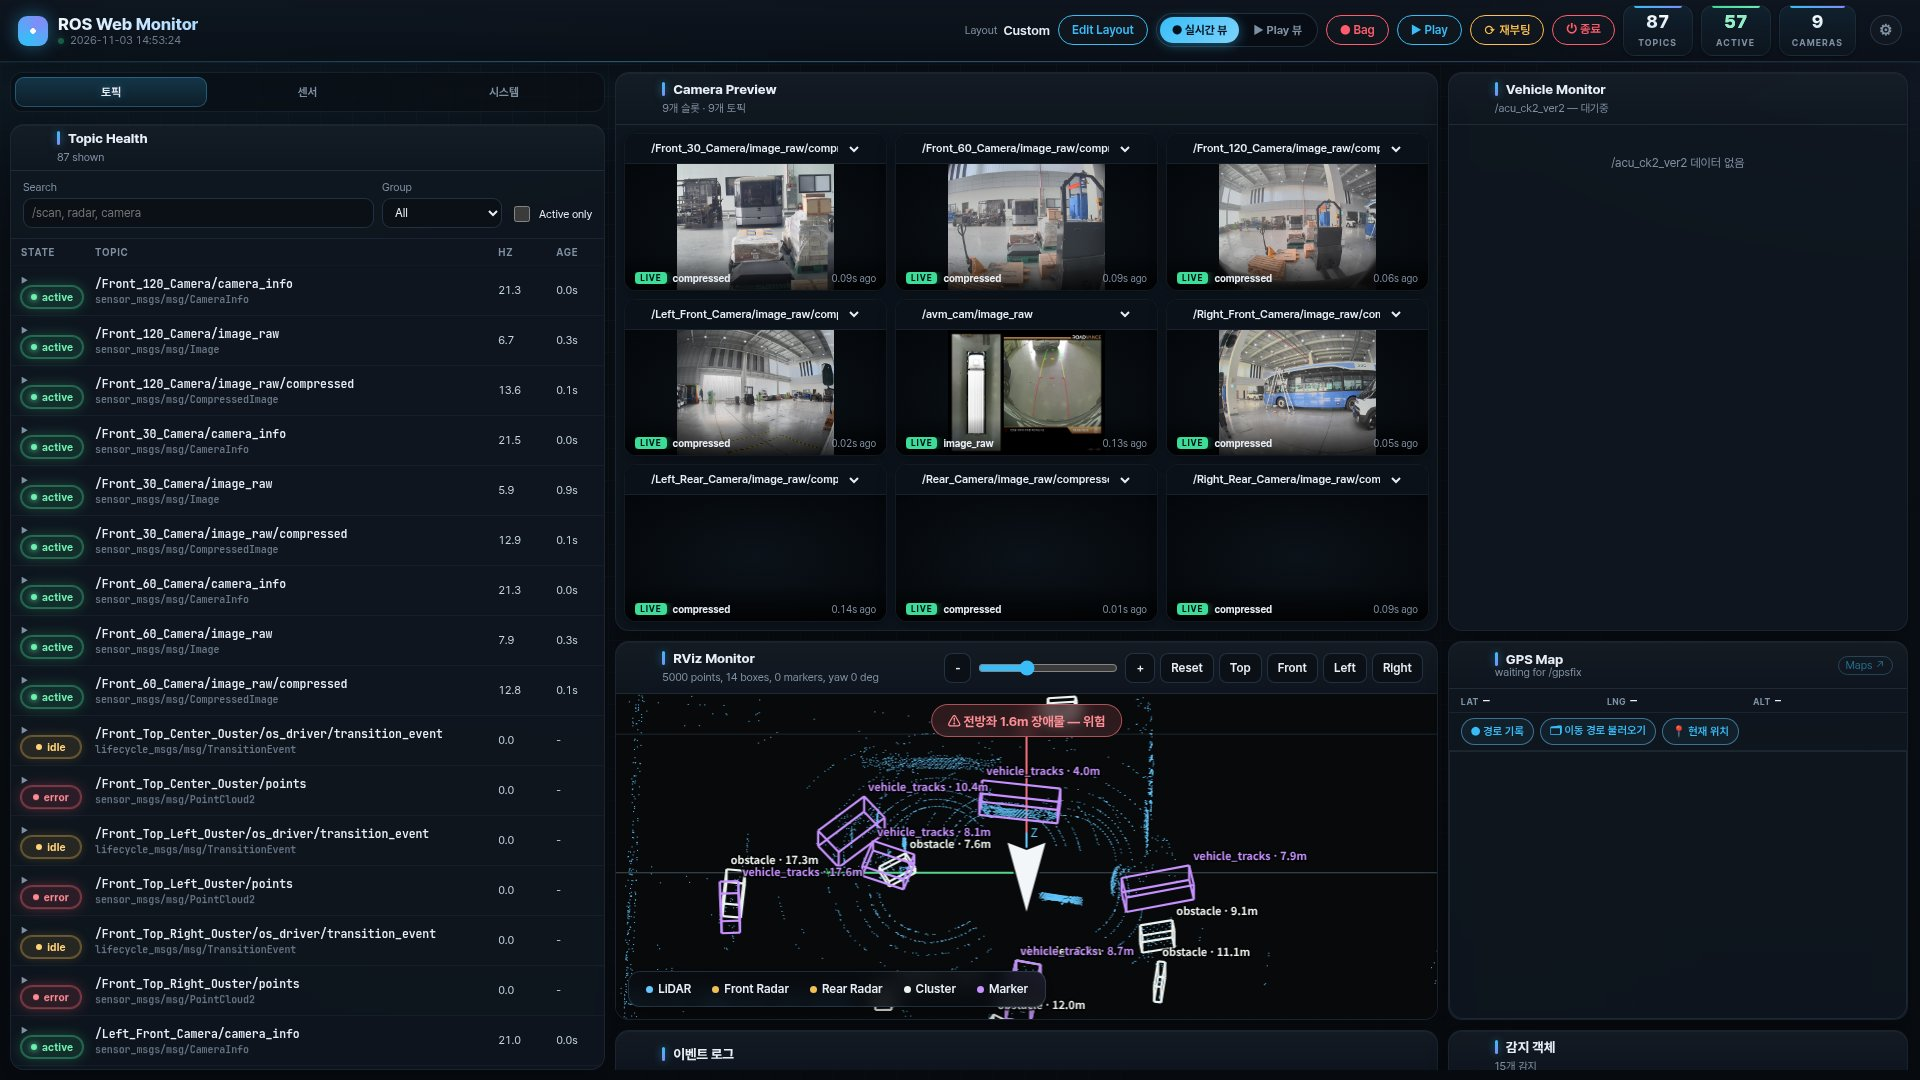
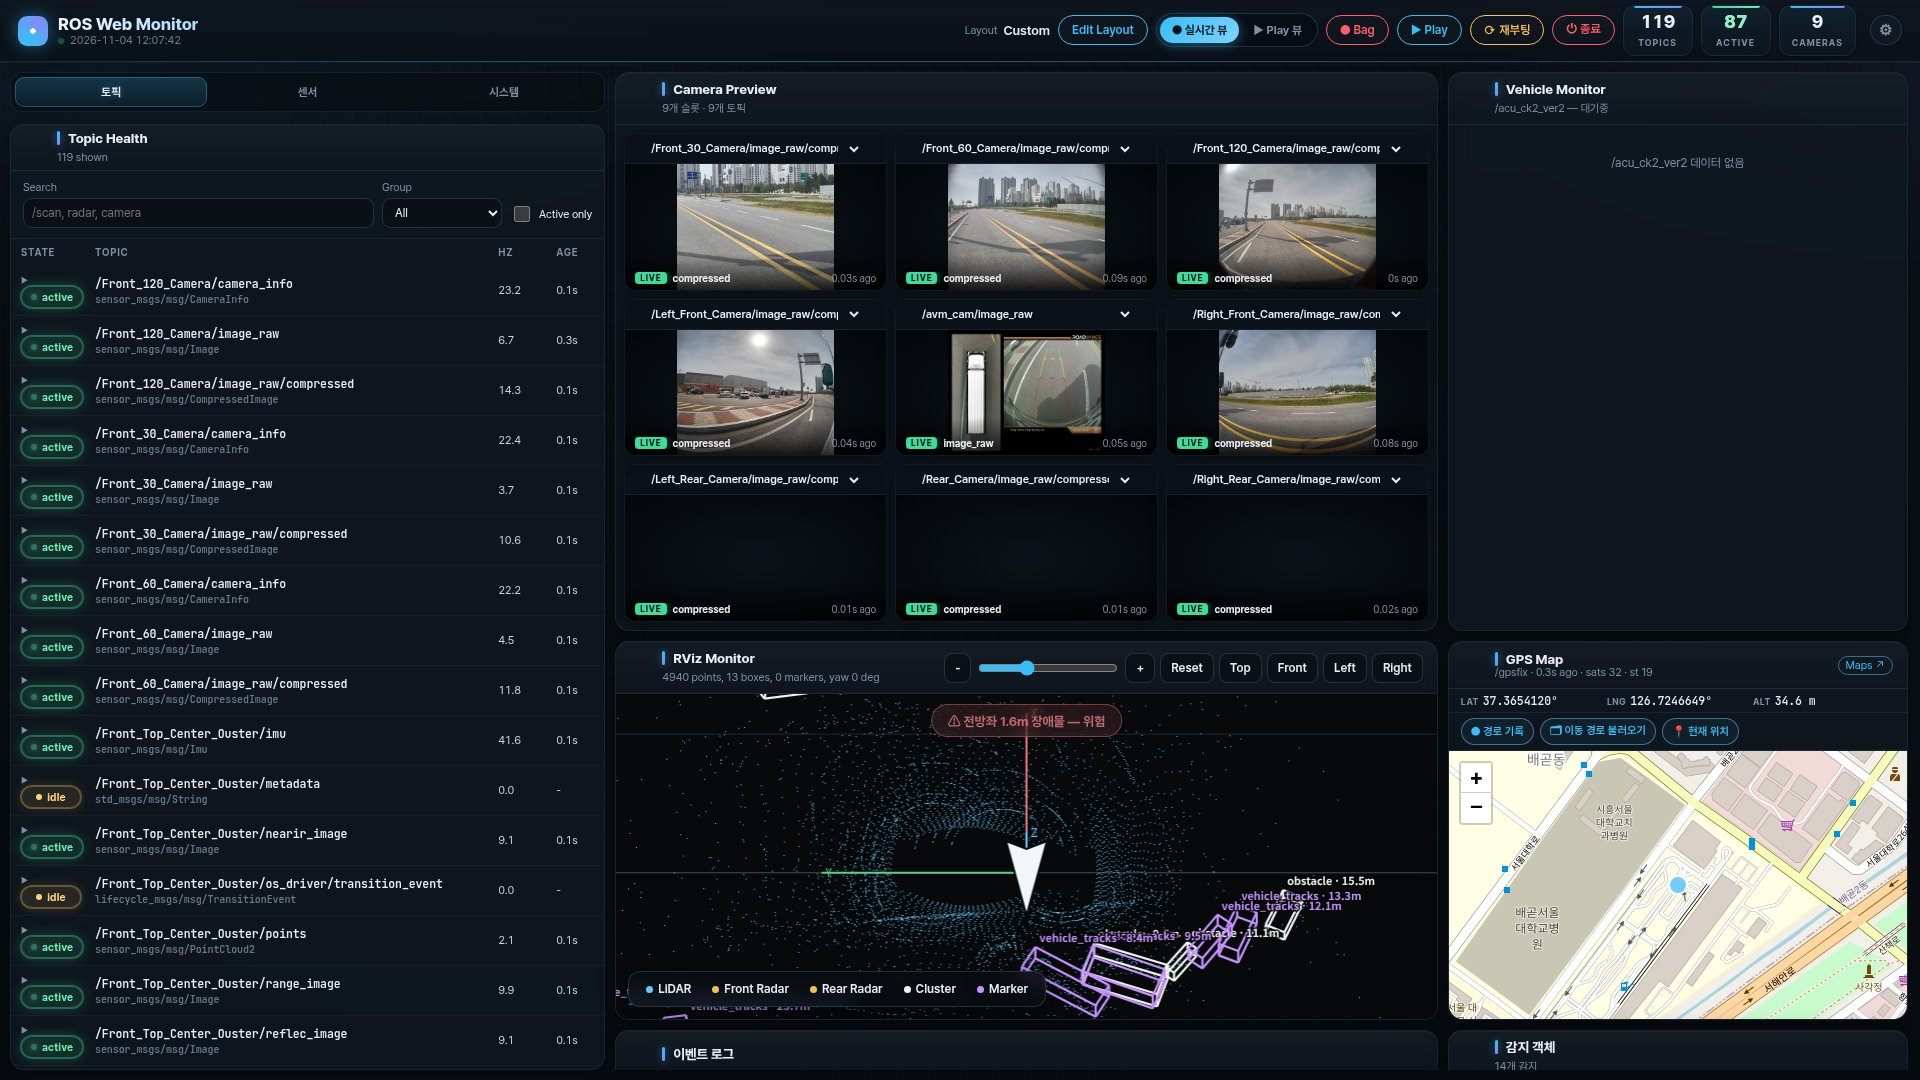
Update

diff --git a/README.md b/README.md
@@ -6,6 +6,8 @@ ROS 2 노드 하나(`monitor_node`)가 모든 토픽을 구독하고, 내장 HTT
 
 ![ROS Web Monitor](docs/screenshot.jpg)
 
+*실차 주행 환경 화면 (2026-11-04): GMSL 카메라 8대 + AVM, 9대 병합 LiDAR와 클러스터·트랙, GNSS 위치(위성 32개)*
+
 ## 주요 기능
 
 | 패널 | 내용 |
@@ -133,3 +135,8 @@ ros_web_monitor/
 - **화면 설정이 초기화됨**: 접속 주소나 브라우저가 바뀌었기 때문입니다. `UI/` 기본 설정이 자동 적용되며, 필요하면 백업 탭에서 다시 불러오세요.
 - **시스템 탭이 비어 있음**: `jtop`이 설치되어 있고 `jtop.service`가 실행 중인지 확인하세요.
 - **재부팅 / 종료 버튼 실패**: 위 sudoers 설정을 확인하세요.
+- **GPS 패널이 비어 있음**: 수신기가 위치를 계산하지 못한 상태입니다(`/pvtgeodetic`의 `nr_sv: 255`, `mode: 0`). 실내이거나 안테나 연결 문제일 수 있으니, 하늘이 보이는 곳에서 확인하세요.
+
+## 알려진 문제
+
+- **카메라 슬롯이 6개를 넘으면 일부 슬롯이 검은 화면으로 나옴**: 브라우저는 한 서버 주소(호스트:포트)에 동시에 열 수 있는 HTTP 연결이 6개로 제한됩니다. 모든 MJPEG 스트림이 `stream_port` 하나를 쓰기 때문에 7번째 슬롯부터는 연결을 열지 못합니다. 토픽 자체는 정상으로 수신되므로 배지는 `LIVE`로 표시됩니다. 지금은 카메라 슬롯을 6개 이하로 두는 방법으로 피할 수 있습니다.
